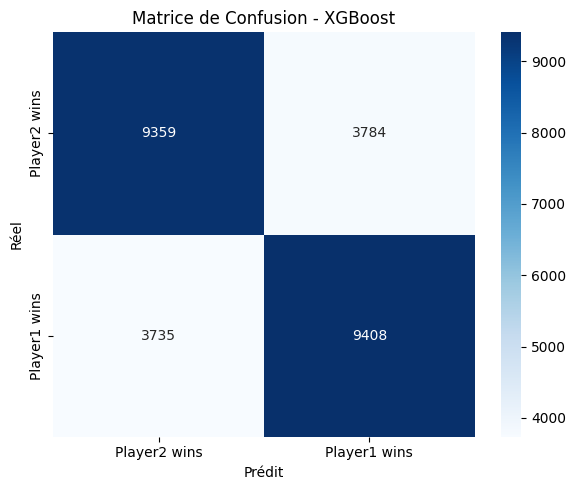
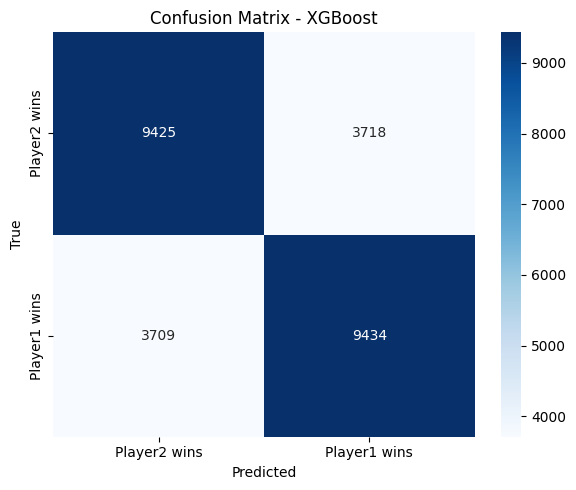
update results and readme

diff --git a/README.md b/README.md
@@ -171,21 +171,27 @@ After retraining the model on this corrected dataset, we obtained the following 
 
 | Metric   | Value |
 | -------- | ----- |
-| Accuracy | 0.879 |
-| F1 Score | 0.880 |
-| Log Loss | 0.279 |
+| Accuracy | 0.72  |
+| F1 Score | 0.72  |
+| Log Loss | 0.55  |
 
 #### Classification Report
 
 ```
+Test set evaluation:
+Accuracy : 0.7174541581069771
+F1 Score : 0.717550865183495
+Log Loss : 0.5496470869014731
+
+Classification Report:
                precision    recall  f1-score   support
 
-           0       0.88      0.87      0.88     13143
-           1       0.88      0.88      0.88     13143
+           0       0.72      0.72      0.72     13143
+           1       0.72      0.72      0.72     13143
 
-    accuracy                           0.88     26286
-   macro avg       0.88      0.88      0.88     26286
-weighted avg       0.88      0.88      0.88     26286
+    accuracy                           0.72     26286
+   macro avg       0.72      0.72      0.72     26286
+weighted avg       0.72      0.72      0.72     26286
 ```
 
 ![ConfusionMatrix](./Images/ConfusionMatrixXGBoost.png)
@@ -205,7 +211,7 @@ Among the top predictors, we find:
 
 ### Conclusion
 
-The performance metrics are now much more realistic. The model no longer relies on leaked outcome-based statistics. Despite this correction, the XGBoost classifier achieves a strong accuracy (~88%), demonstrating that **pre-match data alone can be sufficient to predict match outcomes** with high confidence.
+The performance metrics are now much more realistic. The model no longer relies on leaked outcome-based statistics. Despite this correction, the XGBoost classifier achieves a strong accuracy (~72%), demonstrating that **pre-match data alone can be sufficient to predict match outcomes** with high confidence.
 
 ---
 
